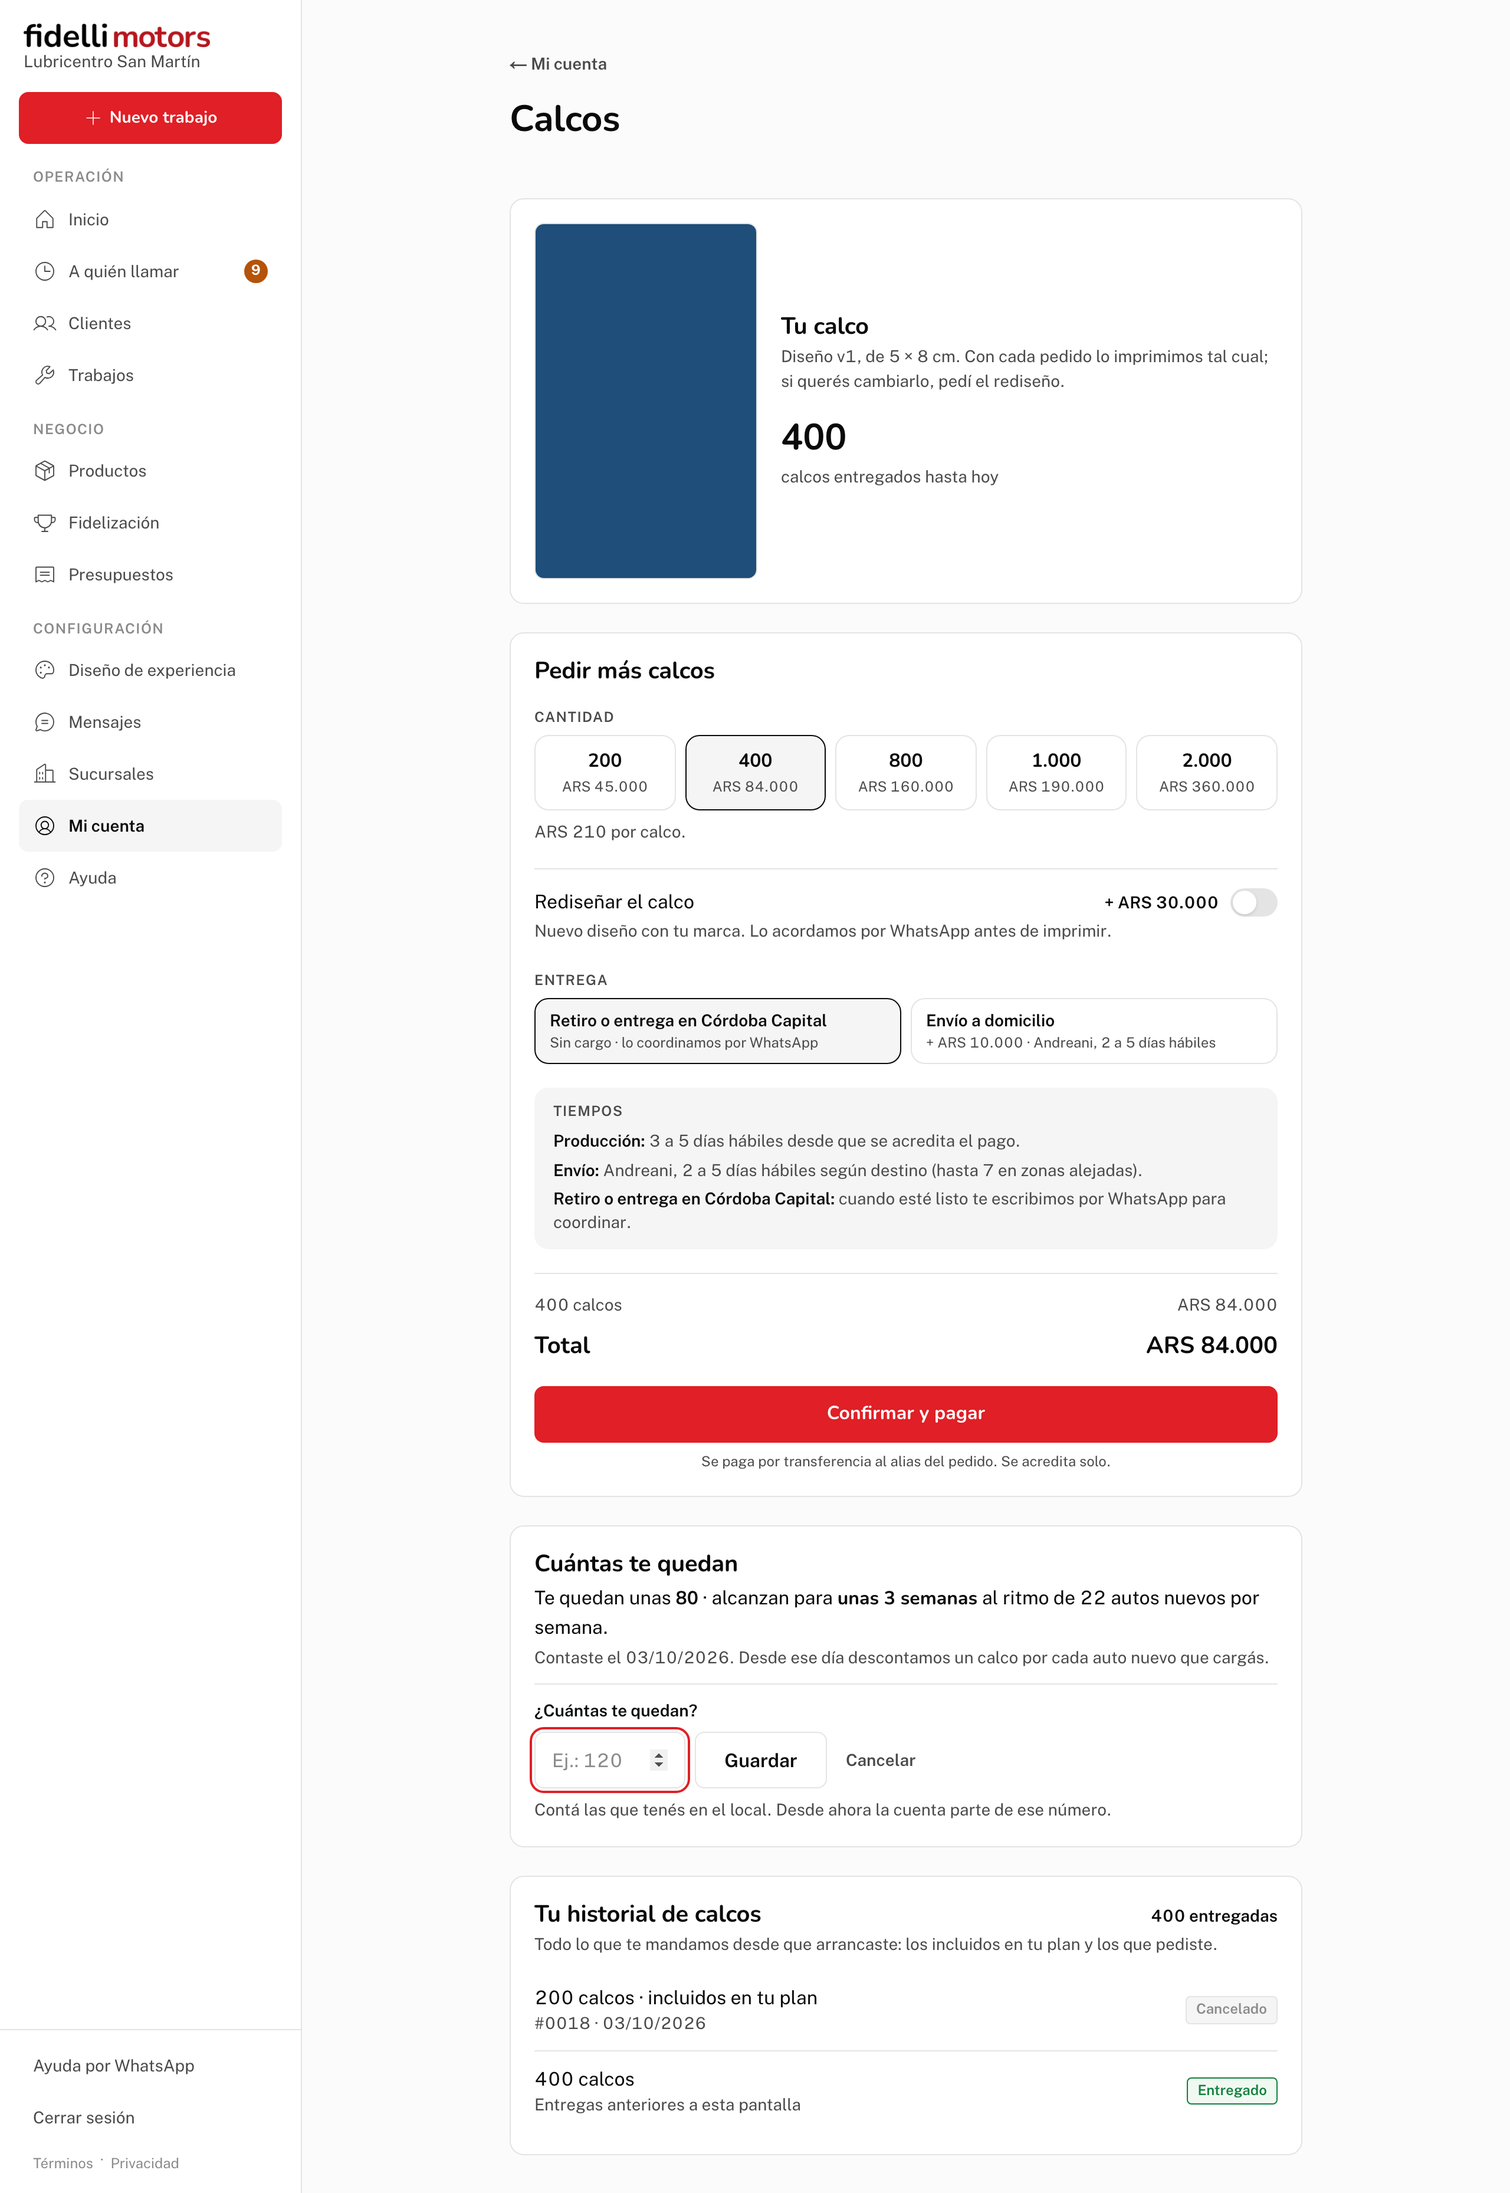
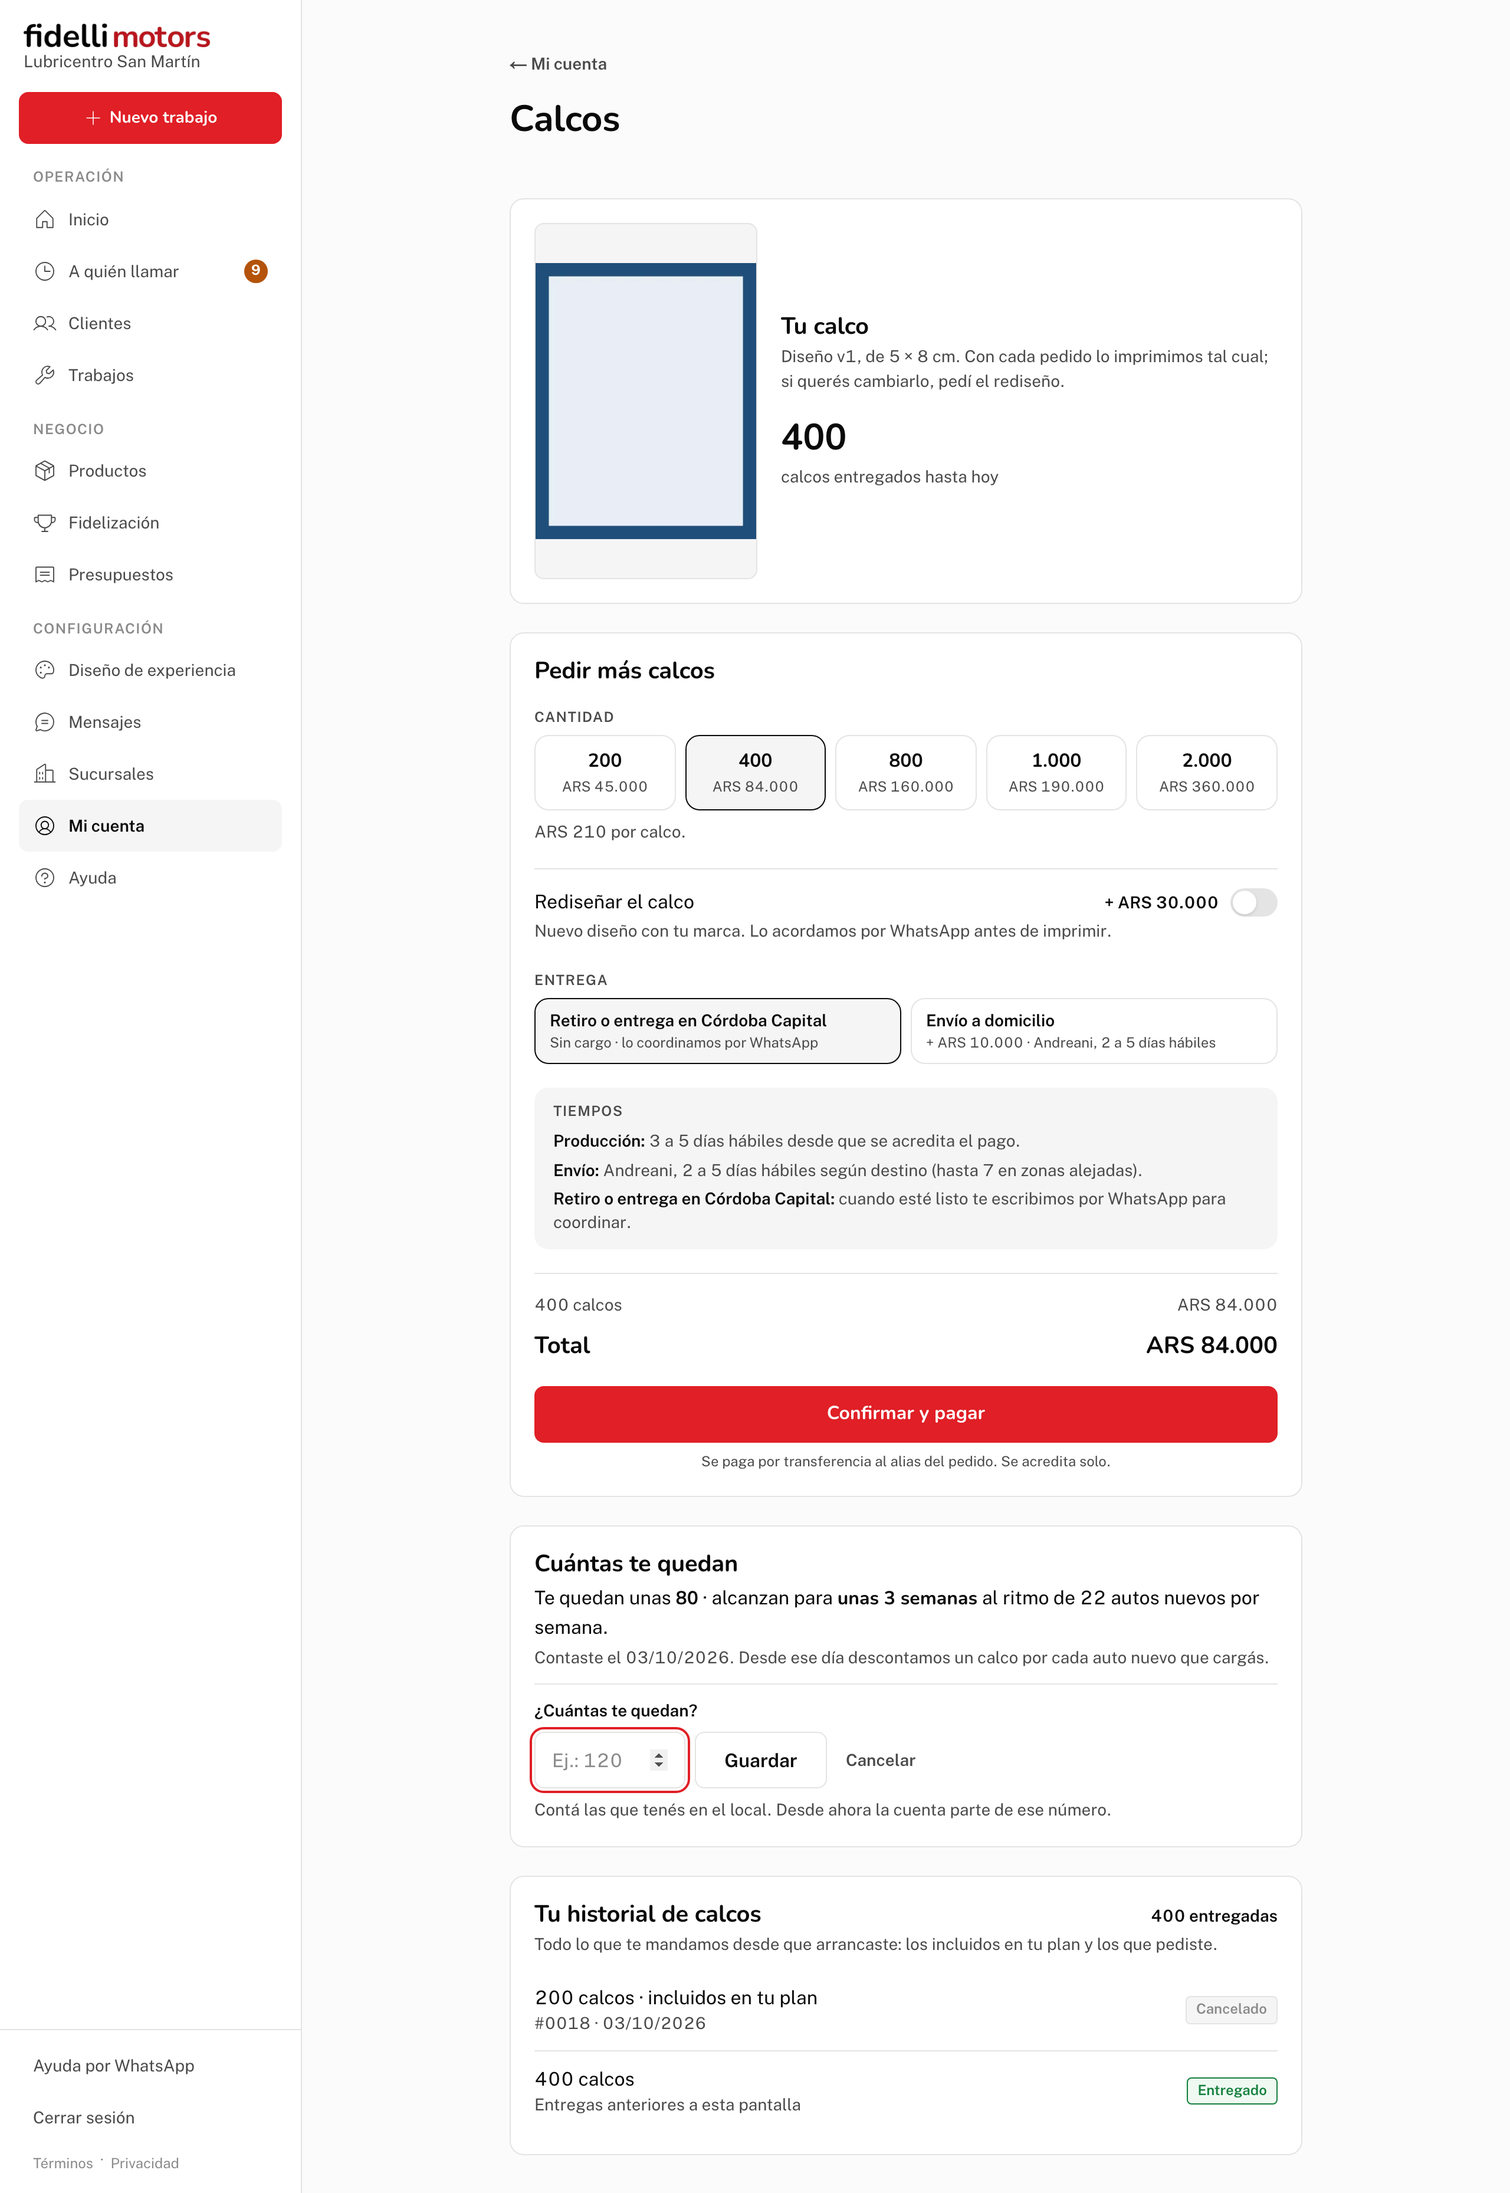
test(calcos): el diseño de prueba no es 5:8 y tiene marco — si se recorta, se nota
La prueba del PR 3 miraba solo que la miniatura midiera 400 de ancho, con
una imagen lisa: una franja de 400 px recortada del centro pasaba igual.

Ahora el diseño de prueba es 4:5 y tiene un marco oscuro en los cuatro
lados. Se comprueba que la miniatura conserve la proporción del archivo
(400 × 500), que la caja siga midiendo 5 × 8 cm y que el diseño se vea
ENTERO: se le saca una foto al <img> y se cuentan los marcos que cruzan
la fila y la columna del medio, dos y dos. También en la ficha.

Se vio en rojo con el código anterior (4 fallas: la miniatura llegaba de
400 × 1250 y no se veía ningún marco). Capturas regeneradas, y la trampa
de `resize` anotada en CLAUDE.md y en el inventario.

Changed region(s): [[0.3438, 0.0936, 0.5, 0.2808]]

diff --git a/CLAUDE.md b/CLAUDE.md
@@ -290,8 +290,15 @@ la resuelve.
   ni aviso, ni mail, ni lista, y Mi cuenta → Calcos gana «Descargar el
   archivo de impresión». La miniatura del diseño sale por la transformación
   de Storage (ancho 400), con respaldo al archivo si no contesta
-  (`[storage.image_transformation]` está prendida en `config.toml`). Lo
-  vigila R41.
+  (`[storage.image_transformation]` está prendida en `config.toml`). **La
+  transformación va con `resize: "contain"`, y no es opcional:** con el modo
+  por defecto (`cover`) y solo el ancho, Storage no achica la imagen, la
+  RECORTA —devuelve una franja de 400 px del centro con el alto original—.
+  Estuvo así un día en producción (04/10/2026): todos los calcos se veían
+  con zoom y cortados, y la prueba no lo vio porque miraba solo el ancho de
+  una imagen lisa. Y el diseño se dibuja ENTERO adentro de la caja de
+  5 × 8 cm (`object-contain`, en Mi cuenta → Calcos y en la ficha): el
+  archivo de un lubricentro no siempre viene en 5:8. Lo vigila R41.
 
 **Los datos históricos no se borran.** Todo es `on delete restrict`. Para dar de
 baja se usa `activo` o `anulado`, nunca `DELETE`. Las dos excepciones escritas
@@ -1086,7 +1093,7 @@ El decimoséptimo rompe R39 (sesenta y ocho roturas) y tiene un compañero con n
 
 Y el mismo script rompe R40 (veintitrés roturas más: noventa y una en total), con otro compañero con navegador. Lo que enseñó: **la trampa se prueba con el error crudo**. La rotura central es sacar la rama de calcos de `acreditar_deposito_cresium()`: la referencia `calcos:<uuid>` llega al cast de la renovación y el bloque se pone en rojo con «invalid input syntax for type uuid», que es textualmente el 500 del webhook; el script espera ESE patrón y no «R40». **Postgres evalúa los CHECK por orden alfabético de nombre**: una orden con las dos cosas y un período la frenaba `calcos_sin_periodo` antes que `orden_de_una_sola_cosa`, así que el caso de R40a va sin período. **Y dos roturas no están porque no rompen nada**: grantarle `acreditar_deposito_cresium()` o `vencer_encargos_calcos()` a `authenticated` deja el 42501 igual, porque las dos son invoker y una sesión no puede escribir ni `cresium_eventos` ni `encargos_calcos` (la segunda se escribió, se escapó, y se cambió por el comentario). Las demás: los tres CHECK de la orden; el uuid del encargo casteado sin mirarle la forma; el pago que no guarda la transacción y la rama «unificada» que escribe en `pagos`; la idempotencia sacada; el `PARTIAL` que paga; el webhook reviviendo cualquier estado y el que no acredita un vencido; el vencimiento que no vence nunca, que vence un día antes, que se lleva lo que no está sin pagar y que con un tenant vence el de todos; **`vencido → pagado` agregado a la tabla de `avanzar_encargo_calcos()`**; el mail que se reclama siempre y el soltar que no suelta; los dos lectores sin el filtro; y las guardas del mail y del catálogo. **`acreditar_deposito_cresium()` y `resumen_admin()` viven desde este sprint en `20261003200000`**: `regresion-cobranza-cresium.sh` (R22e) y `regresion-metricas.sh` (R32g, `M_CA`) las muerden de ahí —el primero, además, sacaba la función de `20260917000000`, que ya no era la vigente desde `20260917130000`—. El compañero es `scripts/regresion-calcos-tenant.mjs`: recorre los imports de Mi cuenta → Calcos y de sus mails buscando el m², compila los dos mails con `tsc`, y con los dobles de Cresium y de Resend levantados adentro del propio script hace el camino entero en 390 táctil —armar el pedido, la pantalla de pago con su alias, copiar, un depósito parcial, el completo que cambia la pantalla sola al éxito en menos de 10 s, el mail que sale una vez aunque Cresium reintente, el despacho desde `/fidelli` con su mail, «En camino» en el historial, entregado y el contador—; edita un precio en «Plan y precios»; vence un pedido y lo paga igual; fuerza el Reintentar, que sale con la referencia `:2`; y llama a la ruta del cierre diario de verdad, que vence el pedido que nadie volvió a mirar (sin el secreto del cron no toca nada). Se vio en rojo sin la pantalla (26 fallas), y la parte del cierre con la ruta sin la llamada que vence. Y `scripts/regresion-cresium-webhook.mjs` ganó el caso de calcos: sobre `develop`, sus cinco depósitos contestaban 500.
 
-Y rompe R41 (sesenta y nueve roturas más: ciento sesenta en total), con un tercer compañero con navegador. Lo que enseñó: **dos roturas se escaparon la primera vez, y las dos por el fixture, no por la regla.** La de «una corrección del libro con fecha vieja suma al stock» la atrapaba otra afirmación antes de tiempo, porque en la prueba TODAS las filas del libro se cargaban hoy: la primera entrega tiene que estar cargada el día que pasó (que es lo que hace «Entregado»), y las demás hoy con fecha vieja (el backfill, una corrección). Y la del escalón de 1 semana (`p_semanas < 1`) no rompía nada con 8 calcos, porque a 8 calcos llega sola la cláusula de las 20: hizo falta un lubricentro con MÁS de 20 calcos y menos de una semana (30 autos nuevos por semana). **Y dos no están porque no rompen nada**: sacarle solo la guarda a `calcos_por_agotarse()` (adentro llama a `stock_calcos()`, que rechaza al owner en el primer tenant que no es suyo) y abrirle solo el UPDATE de `lubricentros` al owner (el candado de `calcos_propias` lo frena igual). Las demás: la cuenta contando trabajos, importados, anulados y los autos de antes de la entrega; la entrega contada por cuándo se cargó; el stock negativo; el recuento que no pisa la base, los autos de antes que siguen descontando, la entrega posterior que no suma, el recuento más viejo ganando y la puerta por tres lados; null en todo por dos lados; el ritmo sobre toda la historia, con menos de 2 semanas, siempre dividido por 8, y la cobertura con ritmo cero; los cinco umbrales del aviso, el aviso con un pedido abierto y la lista de estados abiertos por los dos lados; la lista del hub con el umbral corrido en las dos direcciones, con pedido abierto, con el suspendido y con el demo, y `sin_stock` que no cuenta la lista; los mails con pedido abierto, al suspendido, al demo, cayendo al escalón anterior, sin mirar el ciclo, con «la última entrega» que es la primera, repetido al día siguiente y con la entrega del día contada desde la medianoche; `calcos_propias` con el candado apagado, deshabilitado y bajado a ORIGIN, la bandera que queda prendida, y la puerta sin nota, sin guarda, sin evento y registrando lo que no cambió; los seis candados de los dos libros de a uno y a ORIGIN de a tres, y el unique borrado; y la guarda del stock sacada, **la misma guarda sin el `coalesce`** (un usuario sin lubricentro compara contra null, y `not (… or null)` es null, que un `if` deja pasar), la decisión de los mails grantada a `authenticated` —que acá sí rompe, porque es definer—, las dos funciones de adentro grantadas, y los dos libros con INSERT o con la lectura abiertos. **`resumen_admin()` vive desde este PR en `20261003210000`** (ganó `calcos.sin_stock`): la muerden de ahí `regresion-metricas.sh` (R32g, `M_CA`) y `regresion-calcos.sh` (R39f, R40j y R41g, `M_STOCK`). El compañero es `scripts/regresion-calcos-stock.mjs`: compila la frase del aviso, la regla de «no apilar» y los dos mails con `tsc`; arma en el demo el ejemplo del sprint (115 calcos, 22 autos nuevos por semana, 5 semanas) y lo lee en Mi cuenta → Calcos; corrige con «Contá y corregí»; mira que la miniatura mida 400 de ancho y no lo que mide el archivo (y que caiga al archivo si la transformación no contesta); ve aparecer el aviso del Inicio, lo cierra, comprueba que no vuelve y que vuelve a los 7 días, y que no está con un pedido abierto; entra con un lubricentro por vencer y comprueba que ve la barra de cobranza y NO el aviso de calcos; abre la alerta del hub y la lista con su WhatsApp, prende «Imprime por su cuenta» desde la ficha y ve desaparecer la estimación y aparecer la descarga; y llama a la ruta del cron de verdad con el doble de Resend. Se vio en rojo sin las pantallas (38 fallas). **`emails_calcos` no se puede vaciar ni por la prueba**: deja tres lubricentros `calcos-run-*`, y `supabase db reset` es la única limpieza.
+Y rompe R41 (sesenta y nueve roturas más: ciento sesenta en total), con un tercer compañero con navegador. Lo que enseñó: **dos roturas se escaparon la primera vez, y las dos por el fixture, no por la regla.** La de «una corrección del libro con fecha vieja suma al stock» la atrapaba otra afirmación antes de tiempo, porque en la prueba TODAS las filas del libro se cargaban hoy: la primera entrega tiene que estar cargada el día que pasó (que es lo que hace «Entregado»), y las demás hoy con fecha vieja (el backfill, una corrección). Y la del escalón de 1 semana (`p_semanas < 1`) no rompía nada con 8 calcos, porque a 8 calcos llega sola la cláusula de las 20: hizo falta un lubricentro con MÁS de 20 calcos y menos de una semana (30 autos nuevos por semana). **Y dos no están porque no rompen nada**: sacarle solo la guarda a `calcos_por_agotarse()` (adentro llama a `stock_calcos()`, que rechaza al owner en el primer tenant que no es suyo) y abrirle solo el UPDATE de `lubricentros` al owner (el candado de `calcos_propias` lo frena igual). Las demás: la cuenta contando trabajos, importados, anulados y los autos de antes de la entrega; la entrega contada por cuándo se cargó; el stock negativo; el recuento que no pisa la base, los autos de antes que siguen descontando, la entrega posterior que no suma, el recuento más viejo ganando y la puerta por tres lados; null en todo por dos lados; el ritmo sobre toda la historia, con menos de 2 semanas, siempre dividido por 8, y la cobertura con ritmo cero; los cinco umbrales del aviso, el aviso con un pedido abierto y la lista de estados abiertos por los dos lados; la lista del hub con el umbral corrido en las dos direcciones, con pedido abierto, con el suspendido y con el demo, y `sin_stock` que no cuenta la lista; los mails con pedido abierto, al suspendido, al demo, cayendo al escalón anterior, sin mirar el ciclo, con «la última entrega» que es la primera, repetido al día siguiente y con la entrega del día contada desde la medianoche; `calcos_propias` con el candado apagado, deshabilitado y bajado a ORIGIN, la bandera que queda prendida, y la puerta sin nota, sin guarda, sin evento y registrando lo que no cambió; los seis candados de los dos libros de a uno y a ORIGIN de a tres, y el unique borrado; y la guarda del stock sacada, **la misma guarda sin el `coalesce`** (un usuario sin lubricentro compara contra null, y `not (… or null)` es null, que un `if` deja pasar), la decisión de los mails grantada a `authenticated` —que acá sí rompe, porque es definer—, las dos funciones de adentro grantadas, y los dos libros con INSERT o con la lectura abiertos. **`resumen_admin()` vive desde este PR en `20261003210000`** (ganó `calcos.sin_stock`): la muerden de ahí `regresion-metricas.sh` (R32g, `M_CA`) y `regresion-calcos.sh` (R39f, R40j y R41g, `M_STOCK`). El compañero es `scripts/regresion-calcos-stock.mjs`: compila la frase del aviso, la regla de «no apilar» y los dos mails con `tsc`; arma en el demo el ejemplo del sprint (115 calcos, 22 autos nuevos por semana, 5 semanas) y lo lee en Mi cuenta → Calcos; corrige con «Contá y corregí»; mira que la miniatura mida 400 de ancho y no lo que mide el archivo, que conserve su proporción y que se vea ENTERA —el diseño de prueba es 4:5 y tiene un marco: se le saca una foto al `<img>` y se cuentan los marcos que cruza la fila y la columna del medio, dos y dos— (y que caiga al archivo si la transformación no contesta); ve aparecer el aviso del Inicio, lo cierra, comprueba que no vuelve y que vuelve a los 7 días, y que no está con un pedido abierto; entra con un lubricentro por vencer y comprueba que ve la barra de cobranza y NO el aviso de calcos; abre la alerta del hub y la lista con su WhatsApp, prende «Imprime por su cuenta» desde la ficha y ve desaparecer la estimación y aparecer la descarga; y llama a la ruta del cron de verdad con el doble de Resend. Se vio en rojo sin las pantallas (38 fallas). **`emails_calcos` no se puede vaciar ni por la prueba**: deja tres lubricentros `calcos-run-*`, y `supabase db reset` es la única limpieza.
 
 ⚠ Y DOS DE ESTOS SCRIPTS APUNTAN A MÁS DE UNA MIGRACIÓN, porque
 `estado_cobranza`, `reloj_cobranza` y `crear_lubricentro` se redefinieron en

diff --git a/inventario-producto.md b/inventario-producto.md
@@ -451,7 +451,9 @@ bajar de 4 semanas (y otra vez al bajar de 1 semana, o de 20 calcos) le llega un
 la misma frase que el aviso del Inicio; uno por escalón por entrega, y ninguno si ya tiene
 un pedido abierto. El que **imprime por su cuenta** (lo marca Fidelli) no ve la estimación
 ni recibe avisos, y tiene un botón **«Descargar el archivo de impresión»** con el diseño
-original. La miniatura del diseño ya no carga el archivo entero: sale reducida a 400 px.
+original. La miniatura del diseño ya no carga el archivo entero: sale reducida a 400 px,
+y se muestra completa adentro de la caja de 5 × 8 cm aunque el archivo tenga otra
+proporción (con una franja gris arriba y abajo, o a los costados).
 
 ### 2.15 · Marcas y modelos de vehículos
 
